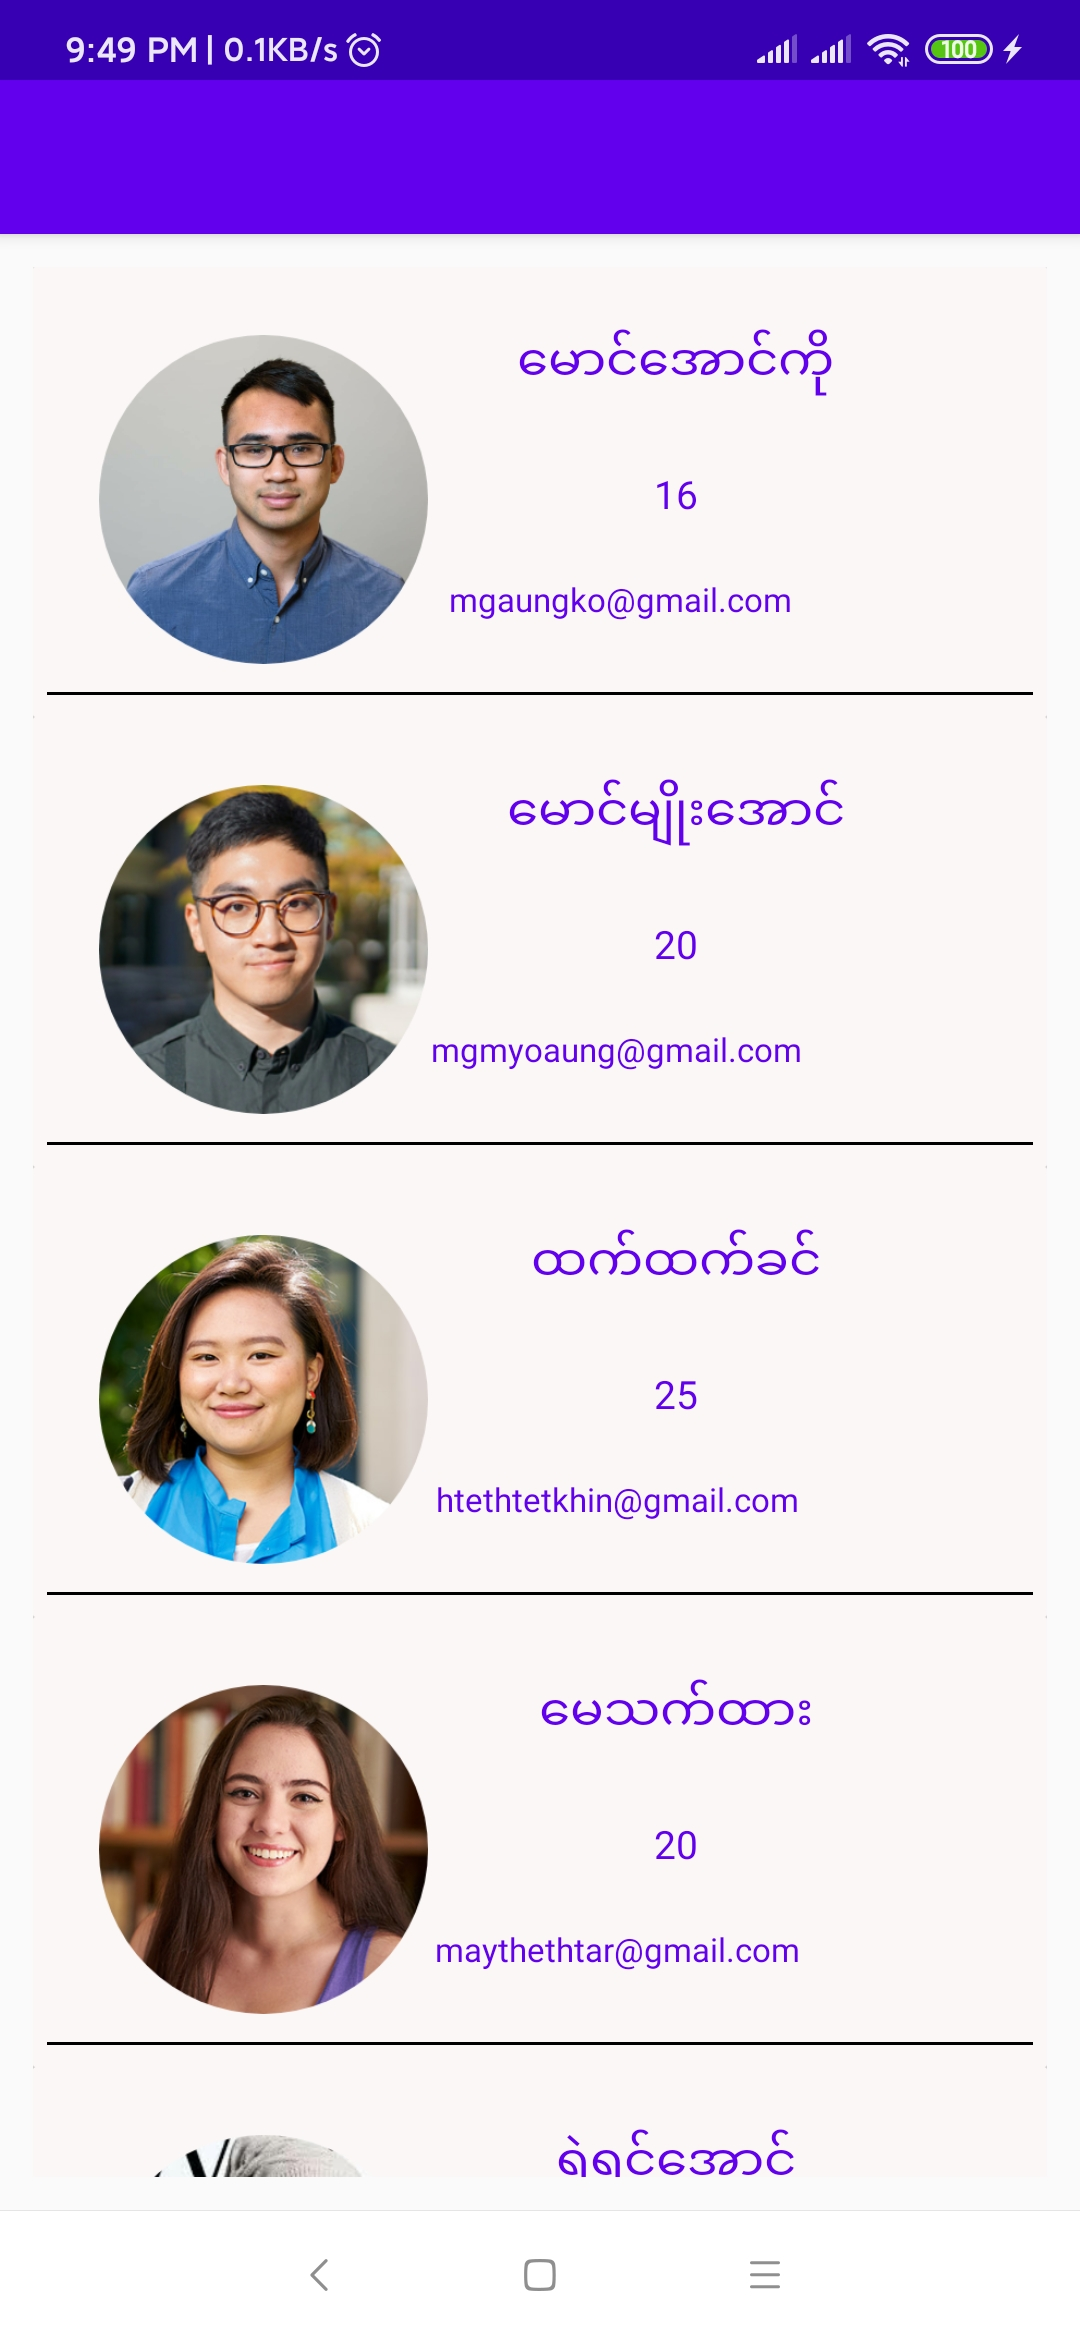
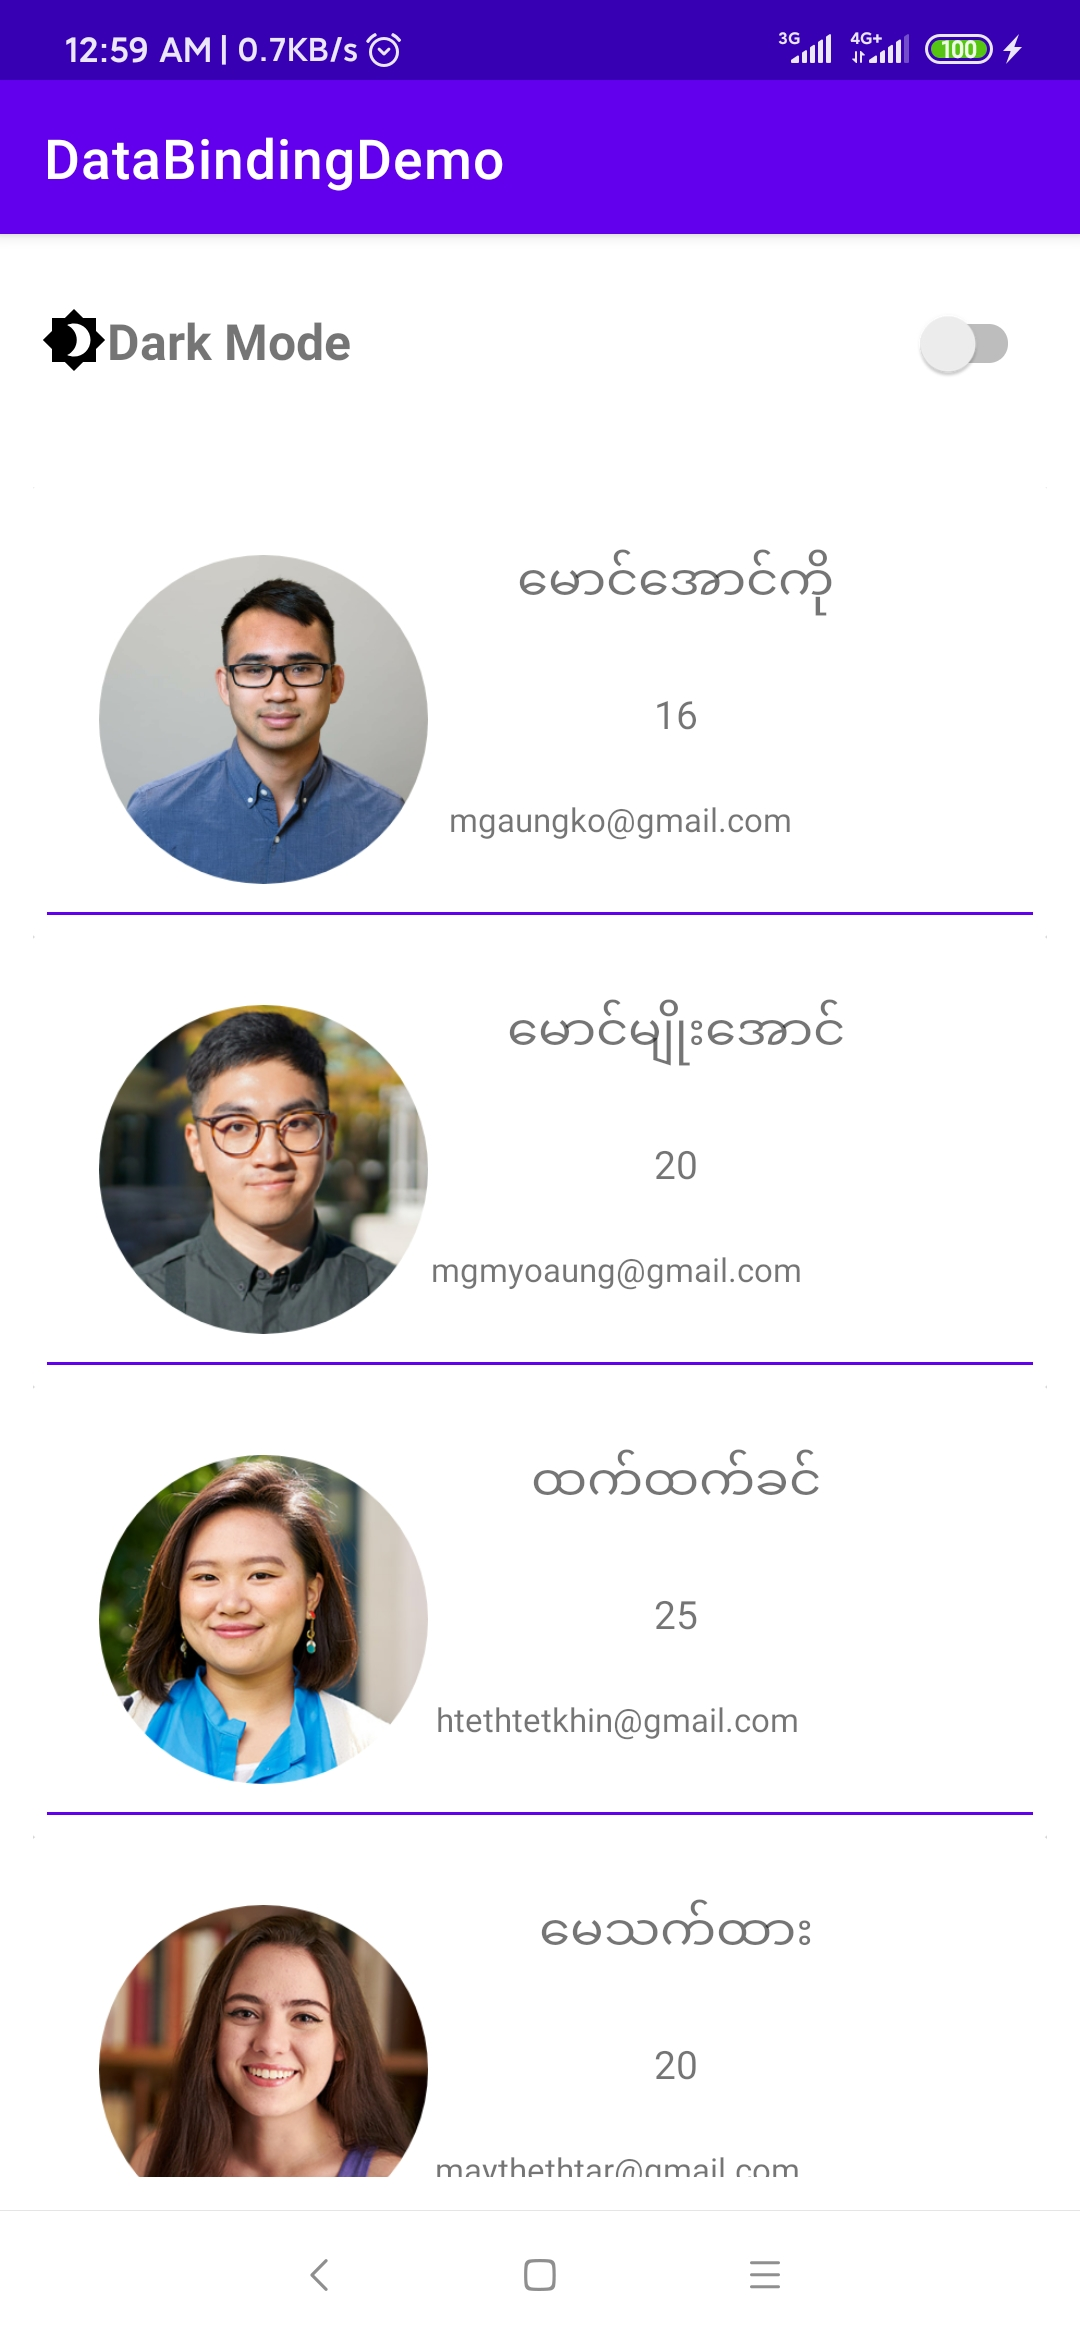
add darkmode theme

diff --git a/app/src/main/java/jackpack/kotlin/databindingdemo/views/uis/SampleActivity.kt b/app/src/main/java/jackpack/kotlin/databindingdemo/views/uis/SampleActivity.kt
@@ -4,6 +4,7 @@ import android.os.Bundle
 import android.view.View
 import android.widget.Toast
 import androidx.appcompat.app.AppCompatActivity
+import androidx.appcompat.app.AppCompatDelegate
 import androidx.databinding.DataBindingUtil
 import androidx.lifecycle.Observer
 import androidx.lifecycle.ViewModelProviders
@@ -38,7 +39,17 @@ class SampleActivity : AppCompatActivity() {
            binding.lifecycleOwner = this  // use Fragment.viewLifecycleOwner for fragments
            adapter = UserListAdapter(applicationContext, arrayListOf())
            binding.myAdapter = adapter
+
+           binding.setOnDarkModeChange { buttonView, isChecked ->
+            println("buttonView = [$buttonView], isChecked = [$isChecked]")
+               when(isChecked)
+               {
+                   true -> AppCompatDelegate.setDefaultNightMode(AppCompatDelegate.MODE_NIGHT_YES)
+                       else -> AppCompatDelegate.setDefaultNightMode(AppCompatDelegate.MODE_NIGHT_NO)
+               }
+           }
     }
+
 
 
     private fun setupObservers() {

diff --git a/app/src/main/java/jackpack/kotlin/databindingdemo/viewmodels/SimpleViewModel.kt b/app/src/main/java/jackpack/kotlin/databindingdemo/viewmodels/SimpleViewModel.kt
@@ -1,5 +1,7 @@
 package jackpack.kotlin.databindingdemo.viewmodels
 
+import androidx.lifecycle.LiveData
+import androidx.lifecycle.MutableLiveData
 import androidx.lifecycle.ViewModel
 import androidx.lifecycle.liveData
 import jackpack.kotlin.databindingdemo.datas.repository.DataRepository
